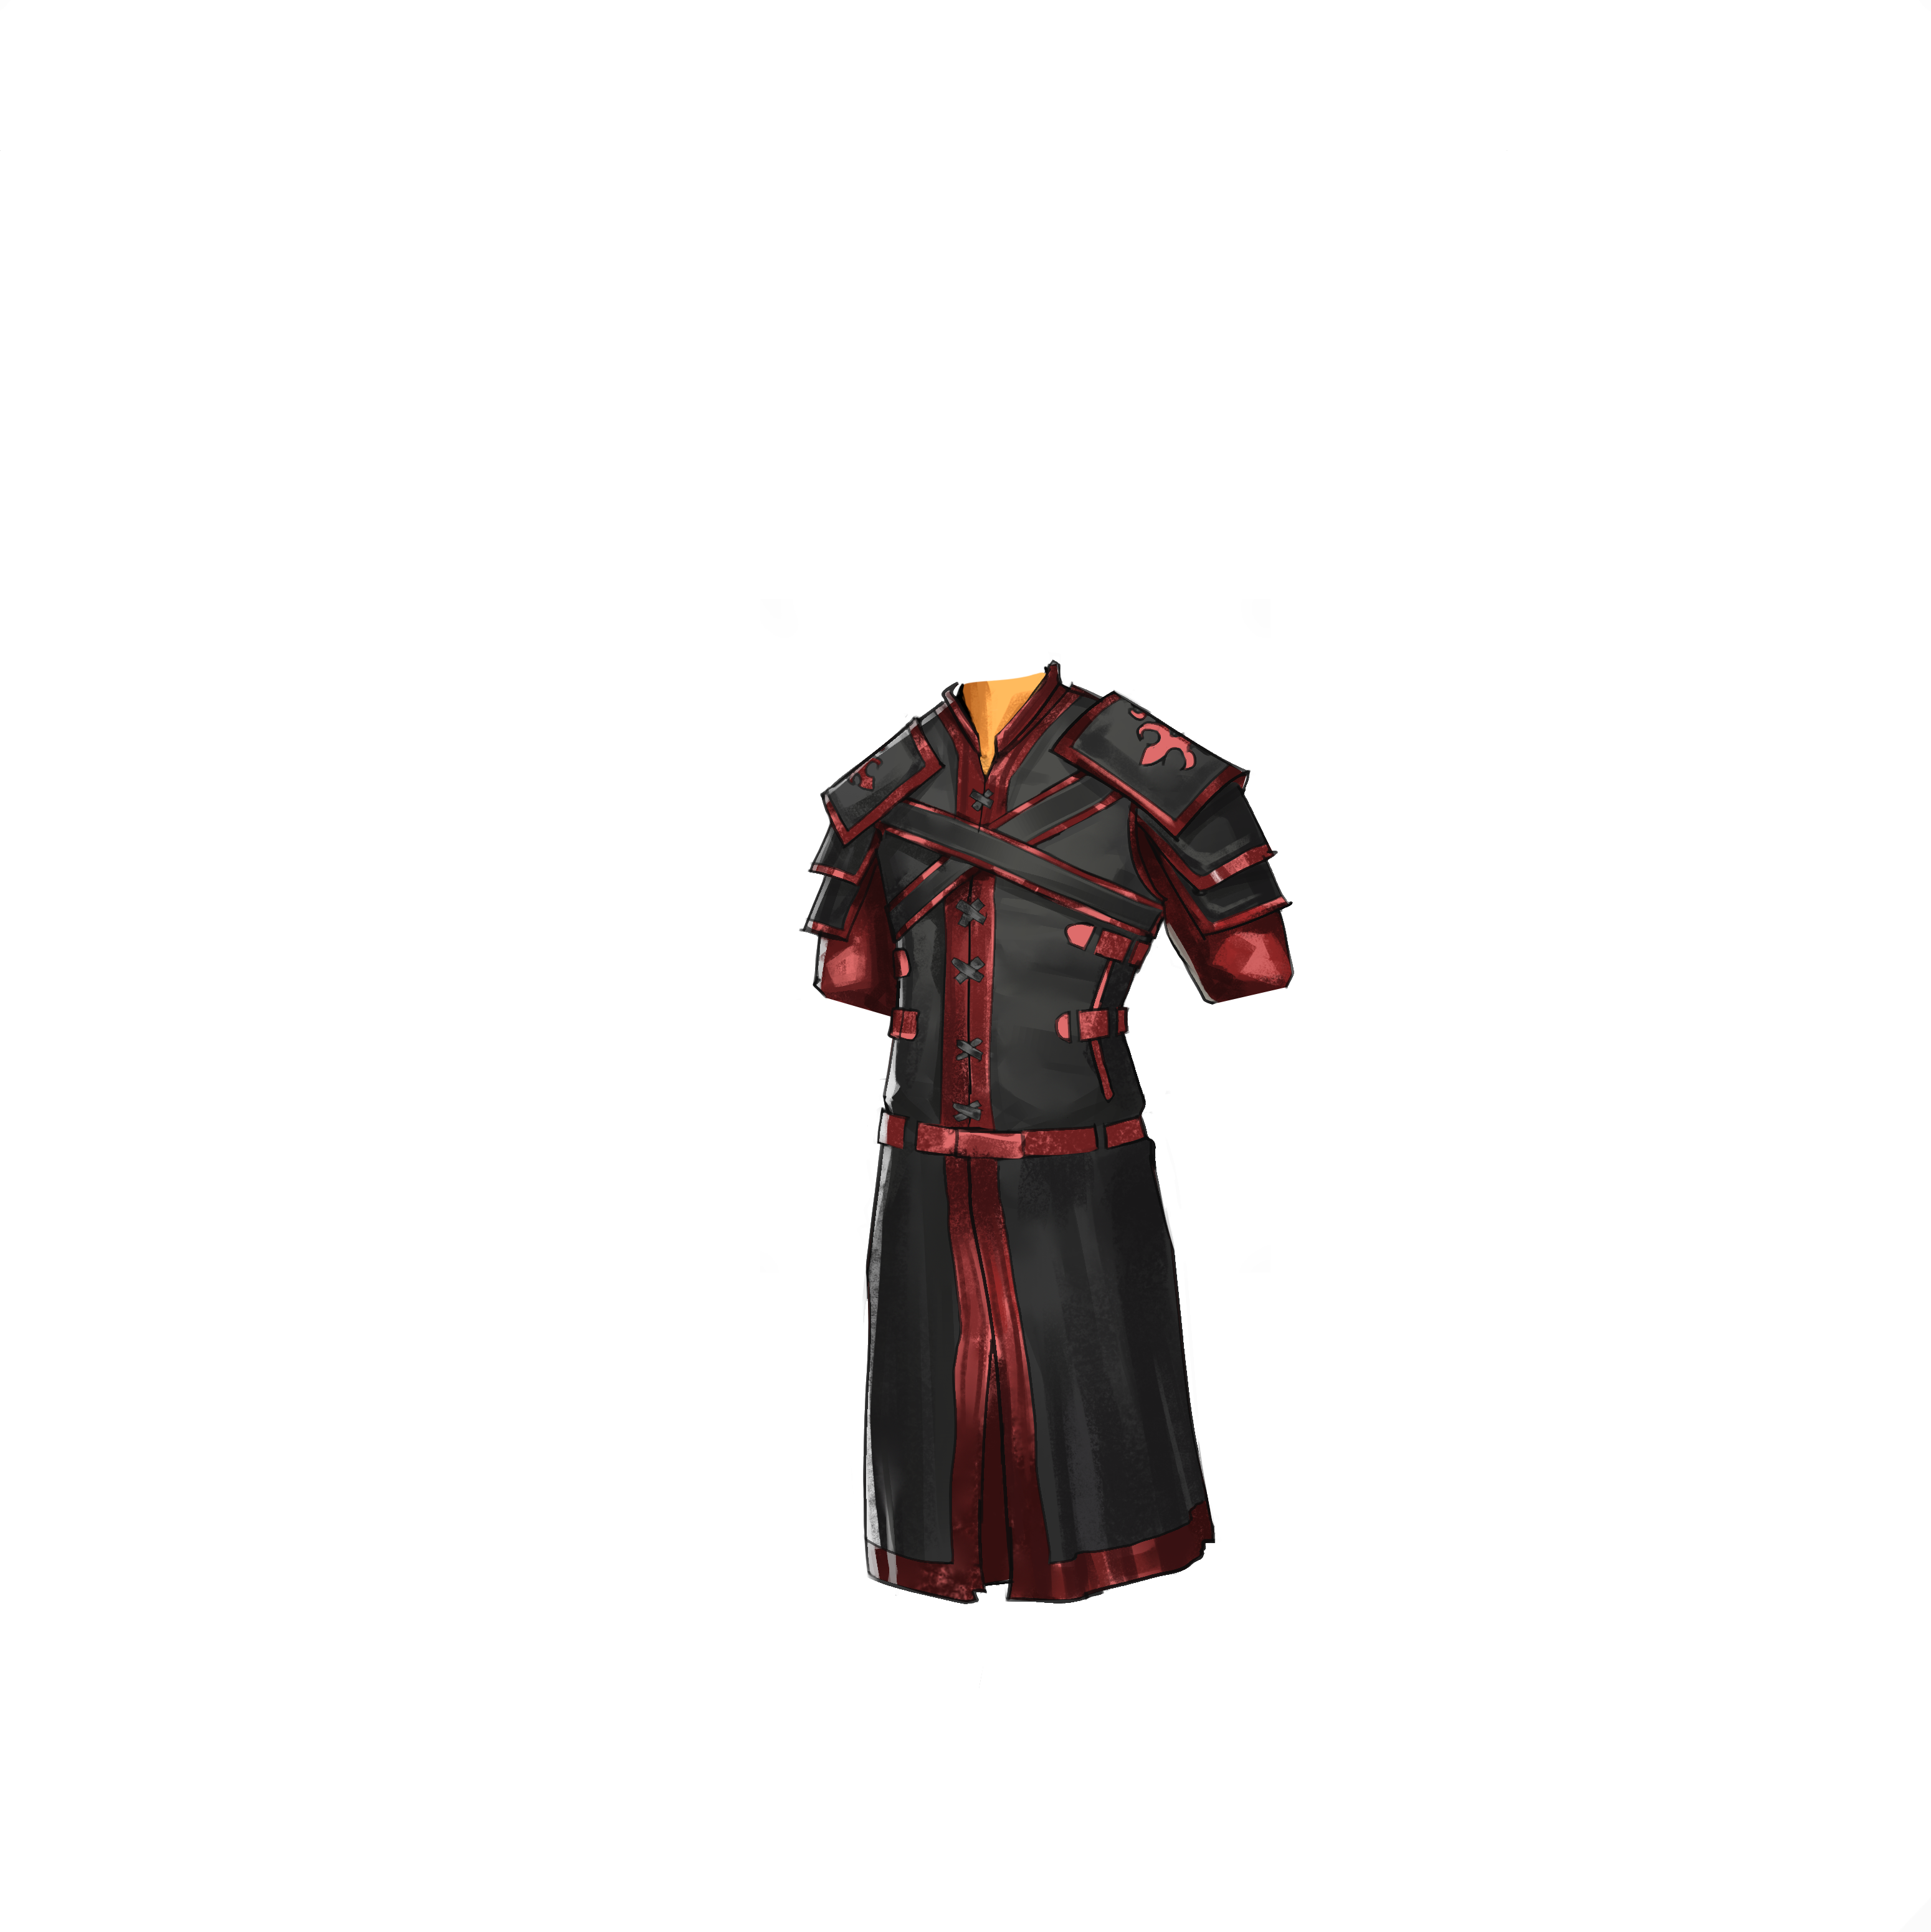
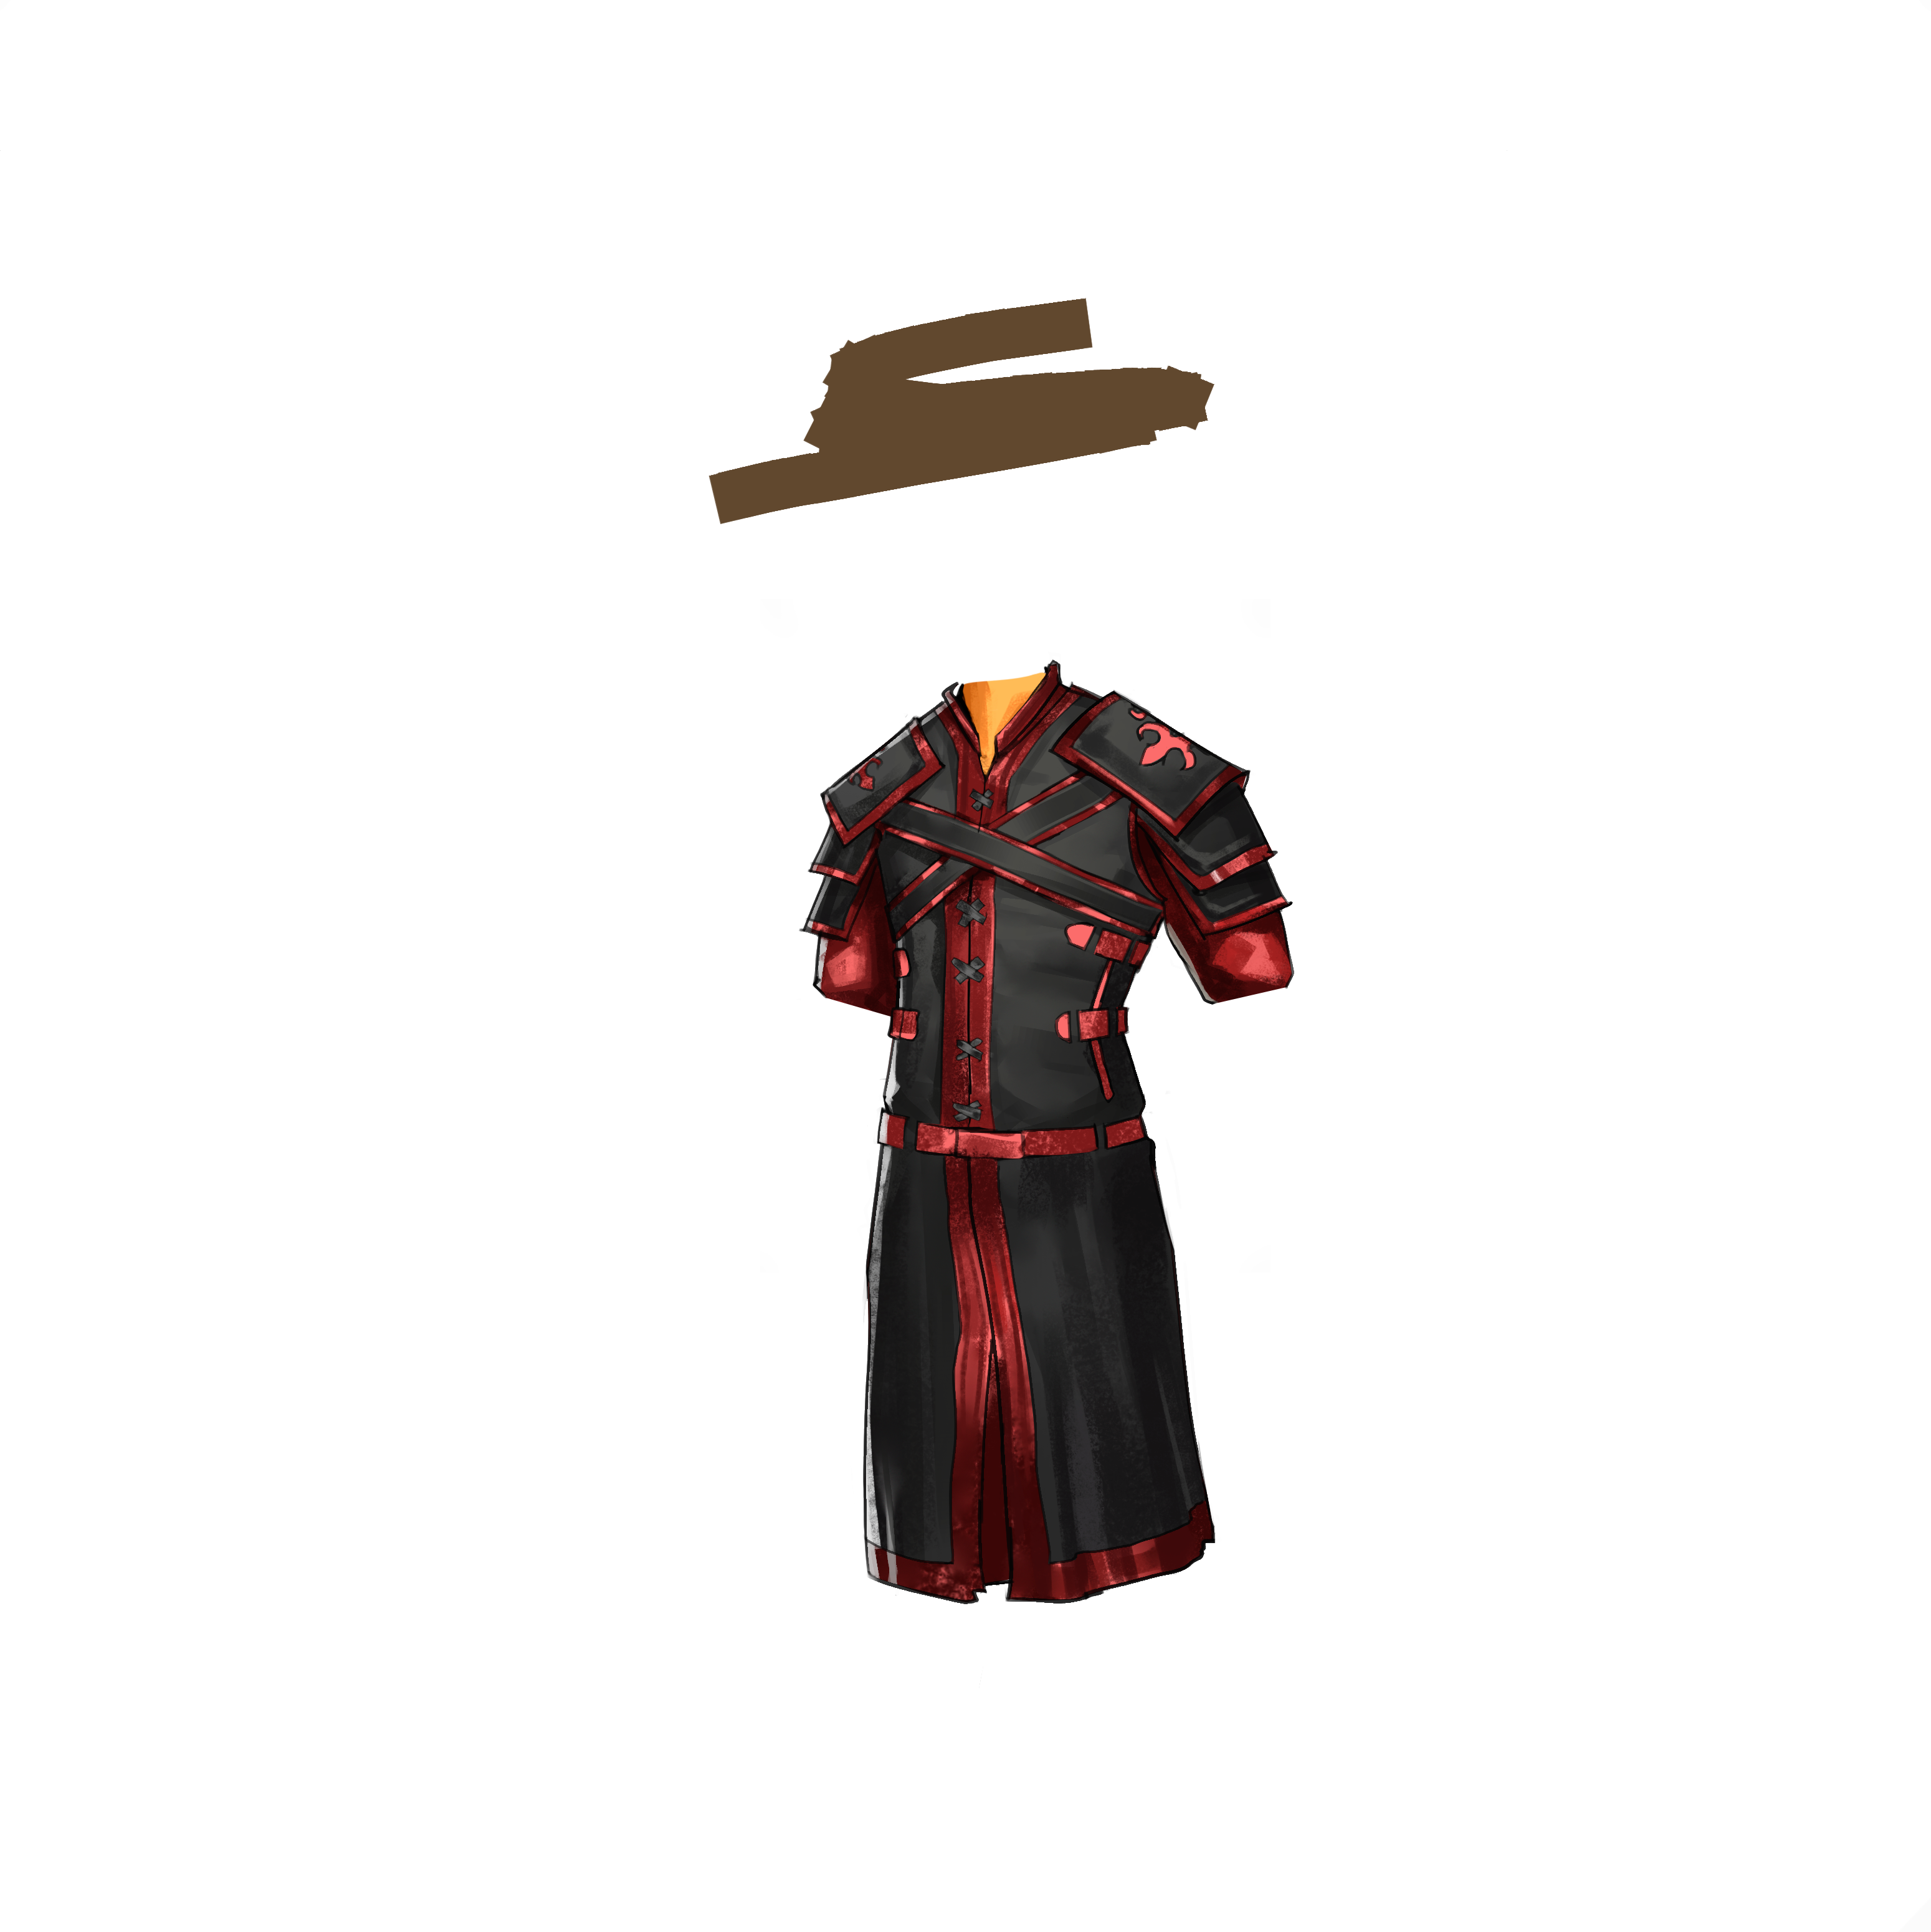
test

diff --git a/src/data/equipmentSets/bassinianWarder.ts b/src/data/equipmentSets/bassinianWarder.ts
@@ -6,7 +6,7 @@ const BW = "bassinianWarder/";
 /** Vanity set `bassinian-warder` — `equipSet` for catalog grouping: `bassinianWarder` (file `bassinianWarder.ts`). */
 export const bassinianWarderEquipment = [
   {
-    id: "e.bassinian-warder-brhes",
+    id: "e.bassinian-warder-breeches",
     name: "Bassinian Warder Breeches",
     equipSlot: "pants",
     imagePath: "/images/item-icons/bassinian-warder-breeches.png",